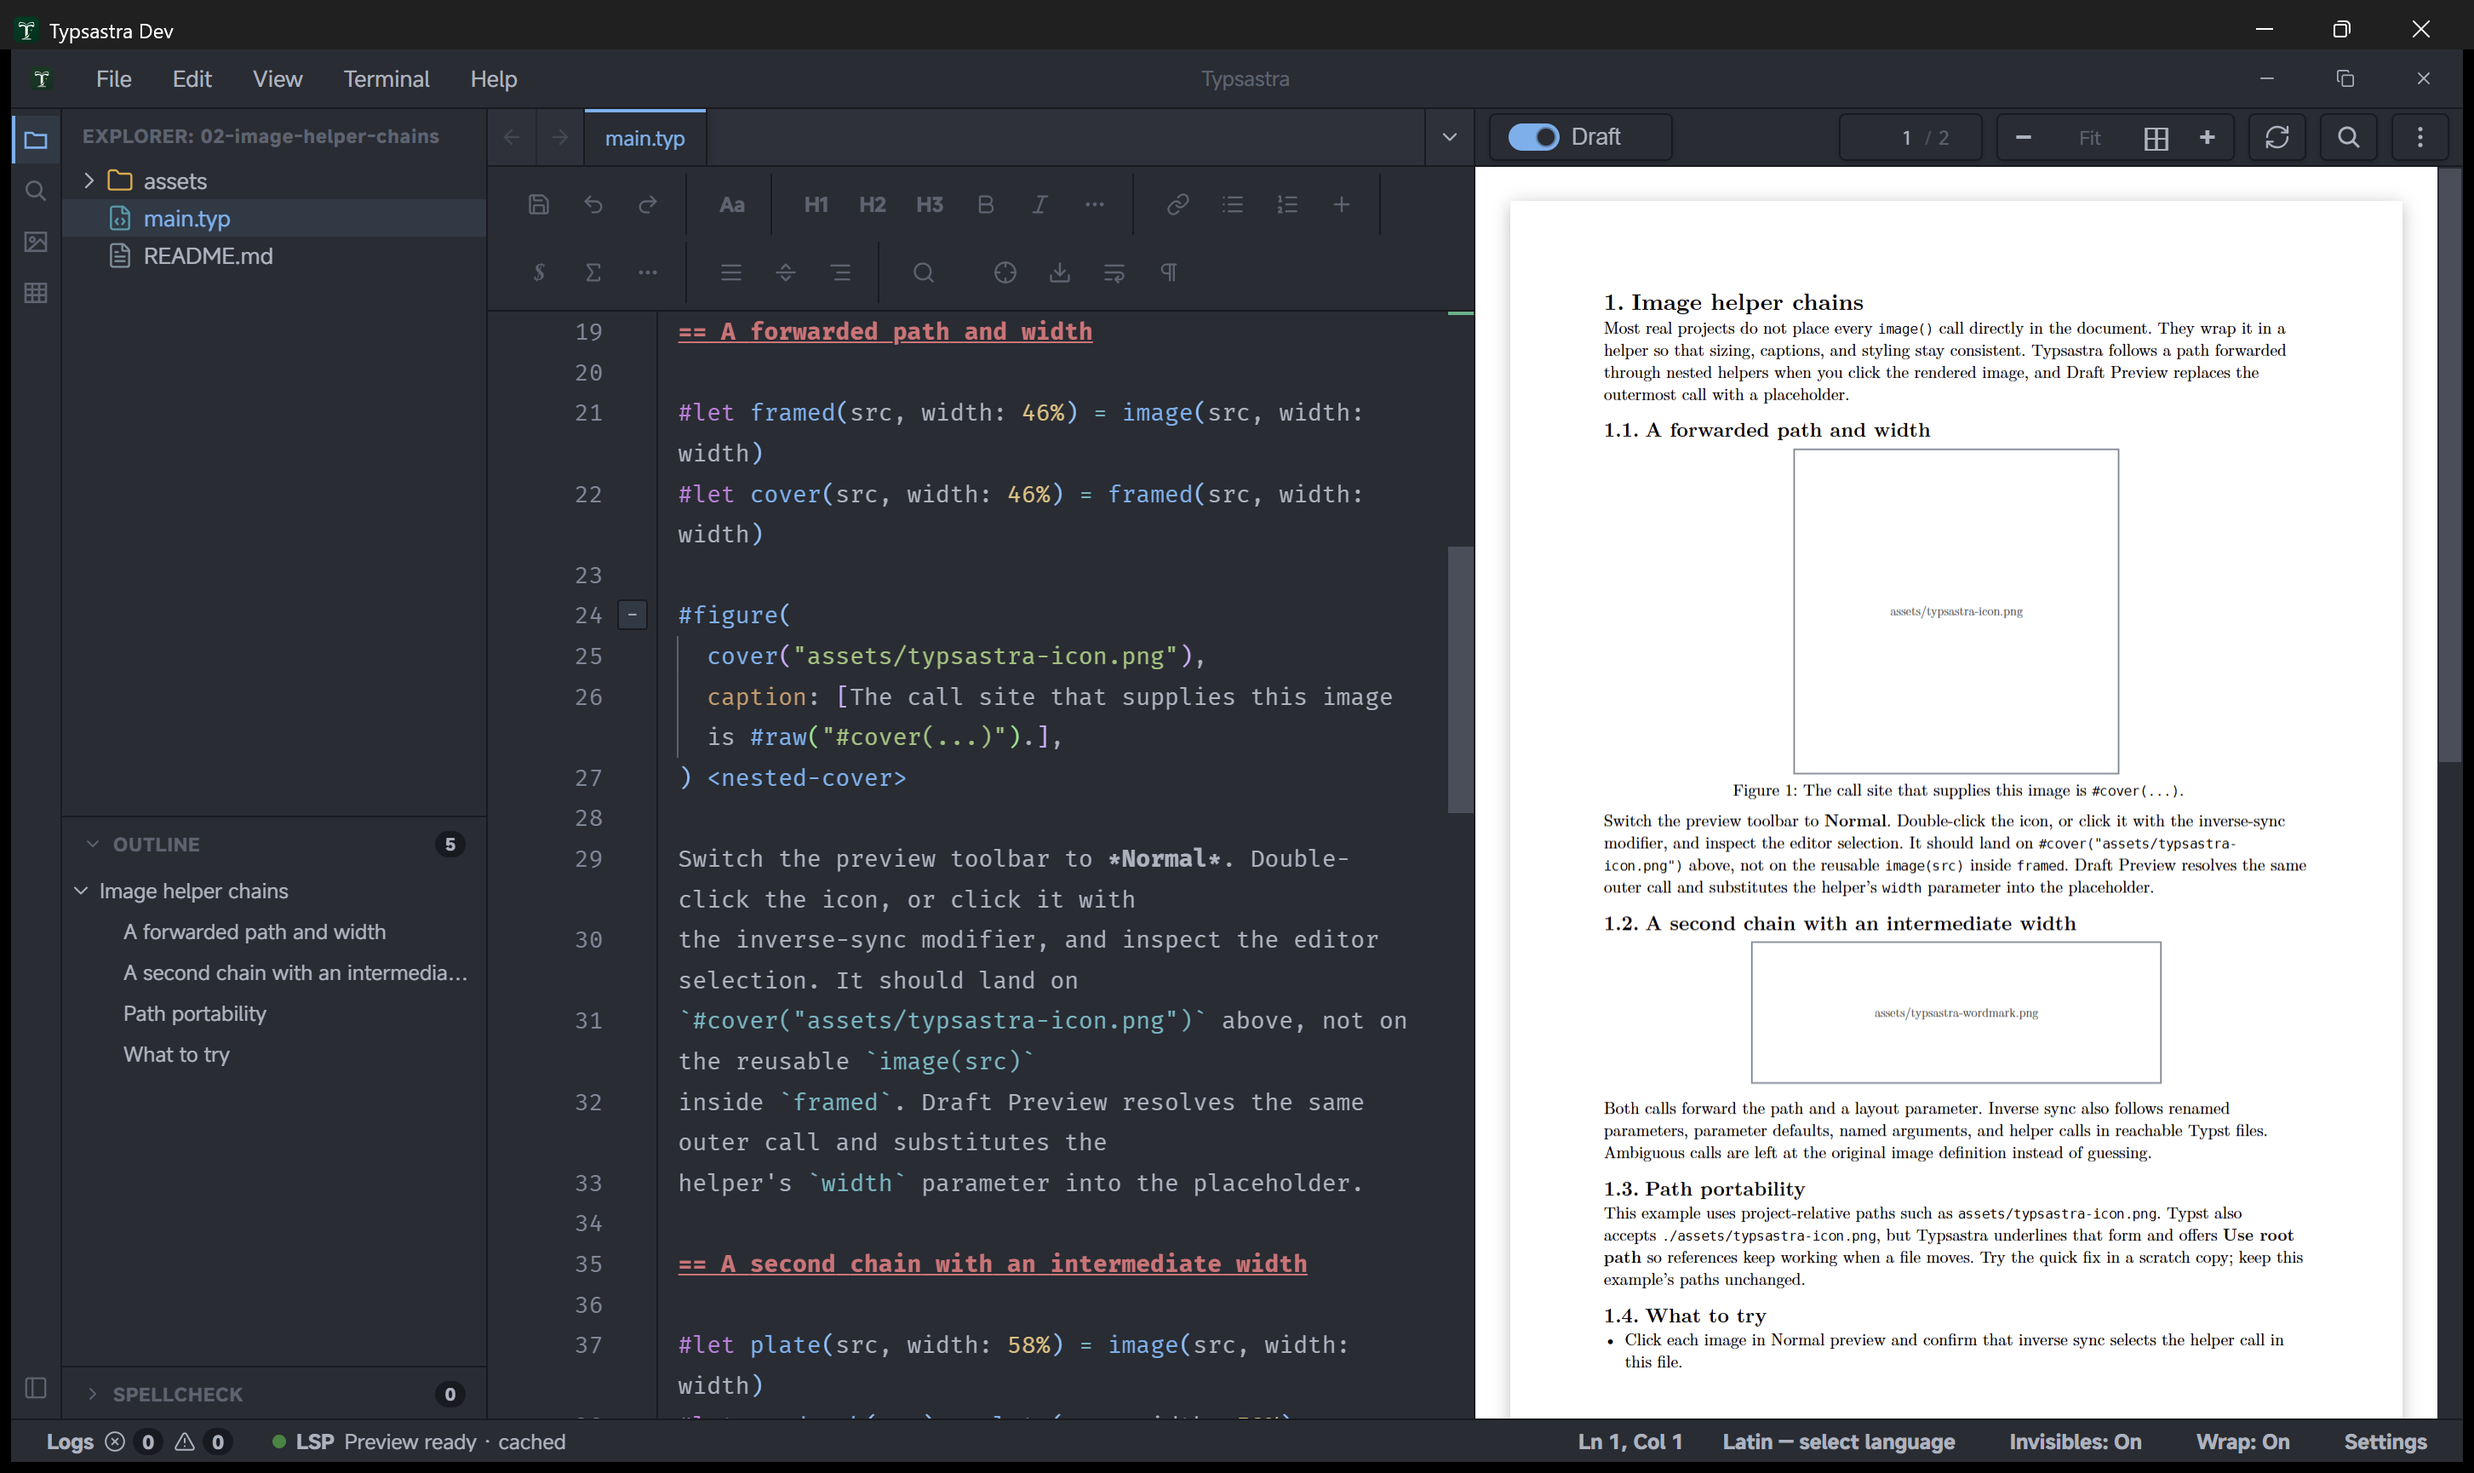
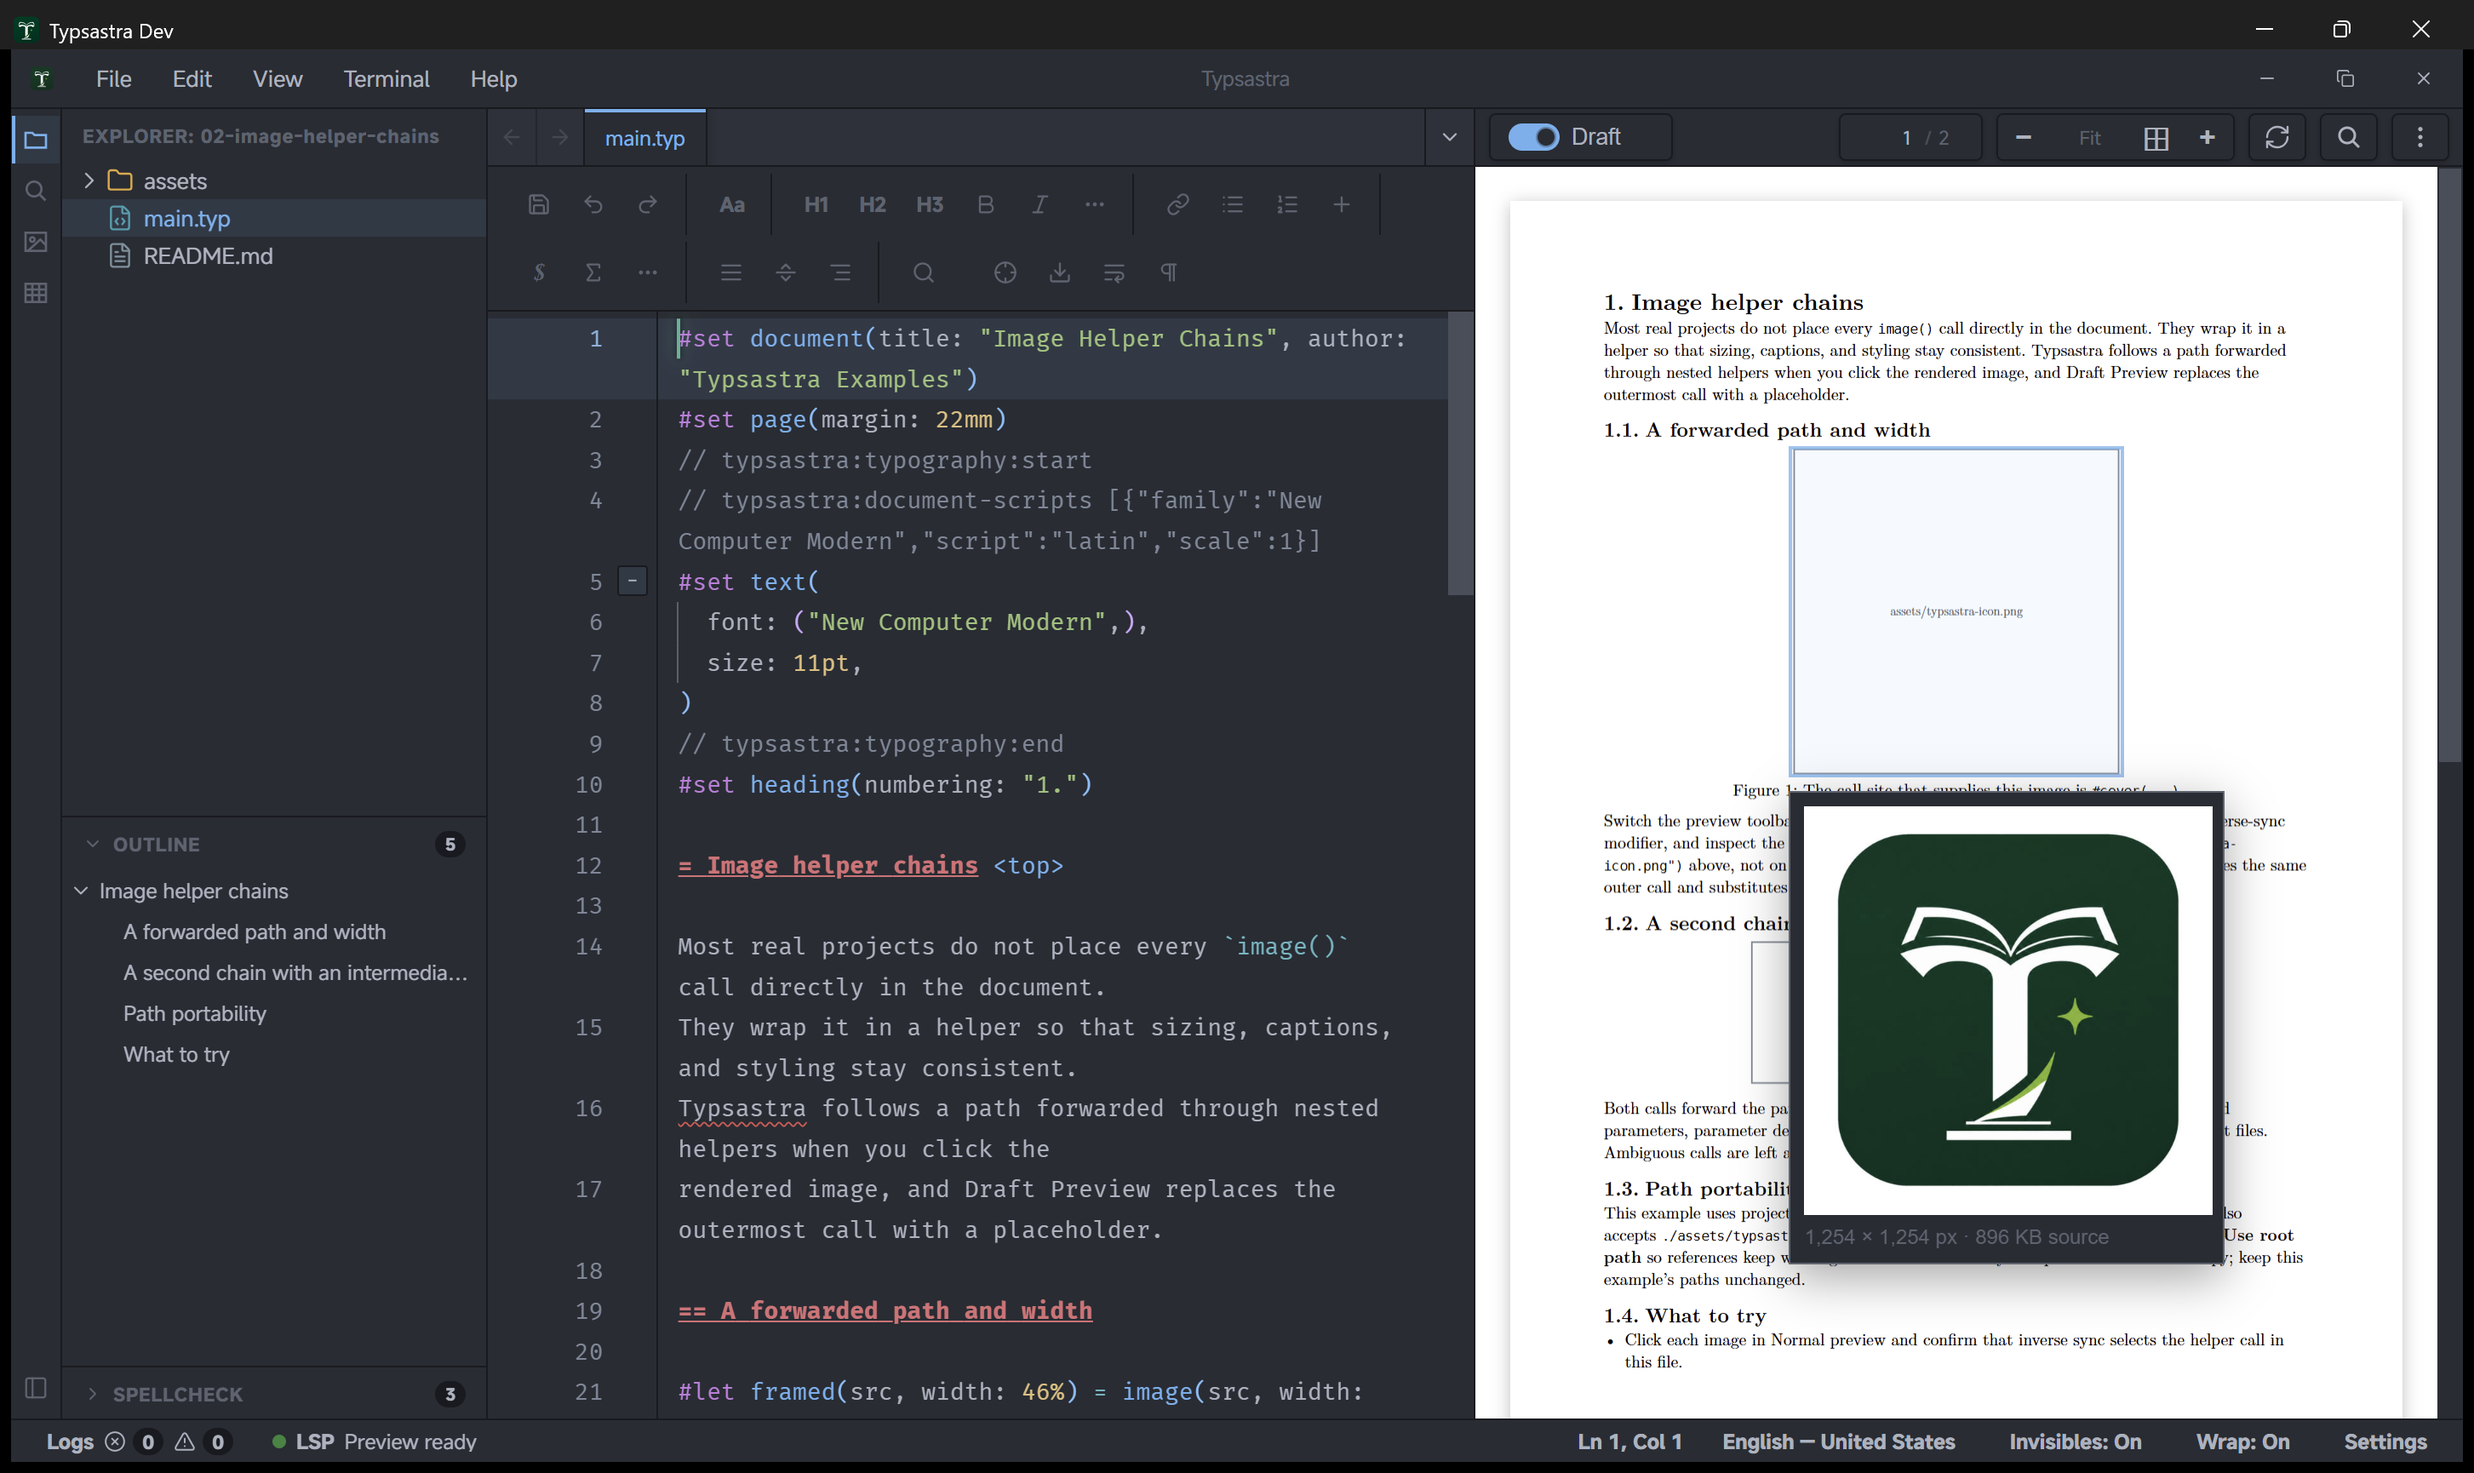
docs(draft): show hover thumbnails in examples
- replace placeholder screenshots with hover popovers
- add a CeTZ hover example and demo project notes
- use the namespaced Fletcher diamond shape in the demo

diff --git a/README.md b/README.md
@@ -64,7 +64,7 @@ externally created projects inherit the global document-language defaults on
 first open. Fresh installs start without a release summary, and **Create New
 Project** is available with `Ctrl+Shift+N` or `Cmd+Shift+N`.
 
-<img src="./docs/assets/screenshots/example-draft-diagrams.png" alt="Draft Preview placeholders for Fletcher diagrams and a CeTZ canvas" width="800"/>
+<img src="./docs/assets/screenshots/example-draft-diagrams.png" alt="Draft Preview showing a Fletcher diagram placeholder with its hover thumbnail" width="800"/>
 
 See the [v0.10.2 release notes](./docs/RELEASE_NOTES_V0.10.2.md).
 
@@ -80,7 +80,7 @@ click. Path-taking Typst functions warn about parent-relative paths and offer a
 root-relative quick fix, and missing toolchains use a non-blocking title-bar
 badge instead of a startup modal.
 
-<img src="./assets/screenshot-example-draft.png" alt="Draft Preview placeholders for images forwarded through nested helpers" width="800"/>
+<img src="./assets/screenshot-example-draft.png" alt="Draft Preview showing an image placeholder with its hover thumbnail" width="800"/>
 
 See the [v0.10.1 release notes](./docs/RELEASE_NOTES_V0.10.1.md).
 
@@ -135,9 +135,11 @@ Table Tools blocks and project creation.
 The image helper exercise shows the same current behavior in Normal and Draft
 preview: inverse sync selects the outermost call that supplied the image, and
 Draft Preview replaces that call with a layout-preserving placeholder using the
-helper's resolved width and height.
+helper's resolved width and height. Hovering the placeholder reveals the cached
+image and its source dimensions without loading the original asset into the
+Draft document.
 
-<img src="./assets/screenshot-example-draft.png" alt="Draft Preview placeholders for images forwarded through nested helpers" width="800"/>
+<img src="./assets/screenshot-example-draft.png" alt="Draft Preview showing an image placeholder with its hover thumbnail" width="800"/>
 
 The `08-tools-and-templates` exercises cover project-owned Table Tools blocks,
 table export/import, and project creation from templates. The linked-table

diff --git a/docs/tutorials/DRAFT_PREVIEW.md b/docs/tutorials/DRAFT_PREVIEW.md
@@ -17,7 +17,10 @@ lightweight placeholders while keeping their measured dimensions and positions
 in the document. Switch back to Normal before export or final visual review; PDF
 export uses original assets.
 
-![Draft Preview showing placeholders for images forwarded through helpers](../assets/screenshots/example-draft-preview.png)
+Hovering an image placeholder reveals its cached thumbnail without loading the
+original image into the Draft document:
+
+![Draft Preview showing an image placeholder with its hover thumbnail](../assets/screenshots/example-draft-preview.png)
 
 <video controls preload="none" playsinline width="100%">
   <source src="https://github.com/user-attachments/assets/b1c45806-8747-4180-8e52-dbe8222f82db" type="video/mp4">
@@ -47,9 +50,14 @@ Normal Preview renders the diagrams at their measured size:
 ![Normal preview showing two Fletcher diagrams and captions](../assets/screenshots/example-draft-diagrams-normal.png)
 
 Draft Preview keeps the same layout and labels each placeholder with its
-diagram kind and source line:
+diagram kind and source line. Hovering a placeholder reveals its cached
+rendering:
 
-![Draft preview showing two Fletcher placeholders and a CeTZ placeholder](../assets/screenshots/example-draft-diagrams.png)
+![Draft preview showing a Fletcher diagram placeholder with its hover thumbnail](../assets/screenshots/example-draft-diagrams.png)
+
+The same hover behavior applies to CeTZ canvases:
+
+![Draft preview showing a CeTZ placeholder with its hover thumbnail](../assets/screenshots/example-draft-cetz-hover.png)
 
 The CeTZ canvas renders normally on the following page in Normal Preview:
 

diff --git a/docs/index.md b/docs/index.md
@@ -20,7 +20,7 @@ Draft Preview replaces supported Fletcher diagrams and CeTZ canvases with
 measured placeholders. Hover a placeholder to inspect its cached thumbnail, and
 use the Normal/Draft control to compare rendered output.
 
-![Draft Preview showing Fletcher and CeTZ placeholders](assets/screenshots/example-draft-diagrams.png)
+![Draft Preview showing a Fletcher diagram placeholder with its hover thumbnail](assets/screenshots/example-draft-diagrams.png)
 
 ### Workflow and preview fixes
 
@@ -44,7 +44,7 @@ the path, including forwarded parameters, defaults, and named arguments. Draft
 Preview resolves same-file helper chains and preserves their width and height
 values in the placeholder.
 
-![Draft Preview showing placeholders for images forwarded through nested helpers](assets/screenshots/example-draft-preview.png)
+![Draft Preview showing an image placeholder with its hover thumbnail](assets/screenshots/example-draft-preview.png)
 
 ### Preview and editor reliability
 

diff --git a/docs/demo-project/README.md b/docs/demo-project/README.md
@@ -13,7 +13,8 @@ multi-file preview have useful content.
    references, crop controls, and optimization preview.
 3. Open `chapters/04-diagrams.typ` and switch the preview between **Normal** and
    **Draft**. Draft replaces the two Fletcher diagrams and the CeTZ canvas with
-   labeled placeholders while preserving their layout.
+   labeled placeholders while preserving their layout. Hover a placeholder to
+   inspect its cached rendering.
 4. Switch to **Table Tools** and select the **Basic table** already stored in
    this demo project's configuration. Its ID matches the `//@table:basic_table`
    anchor in `main.typ`, and its generated Typst block is synchronized there.
